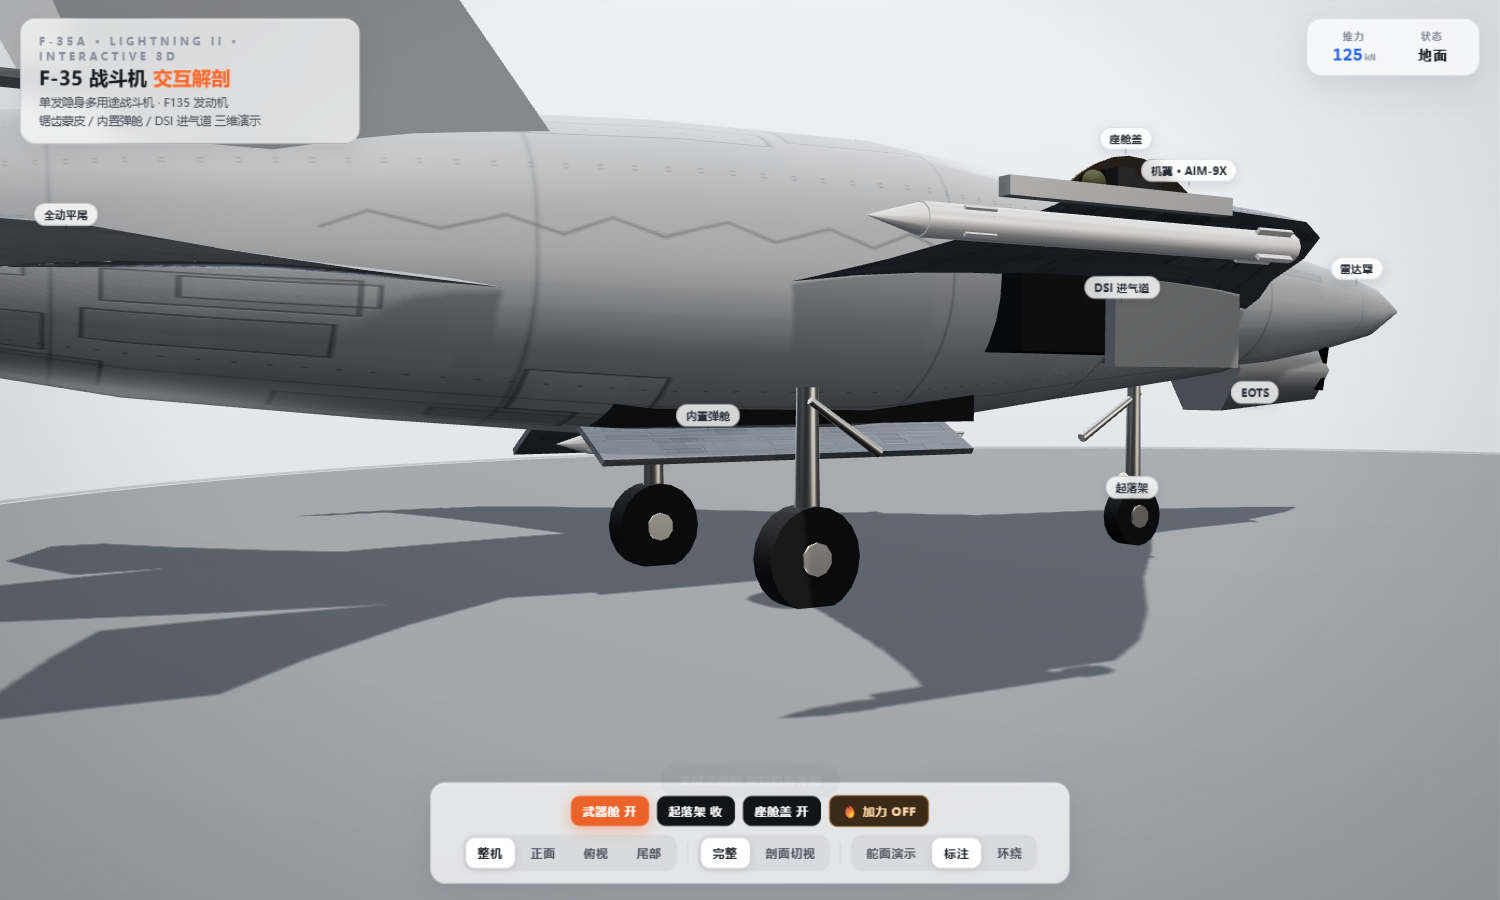
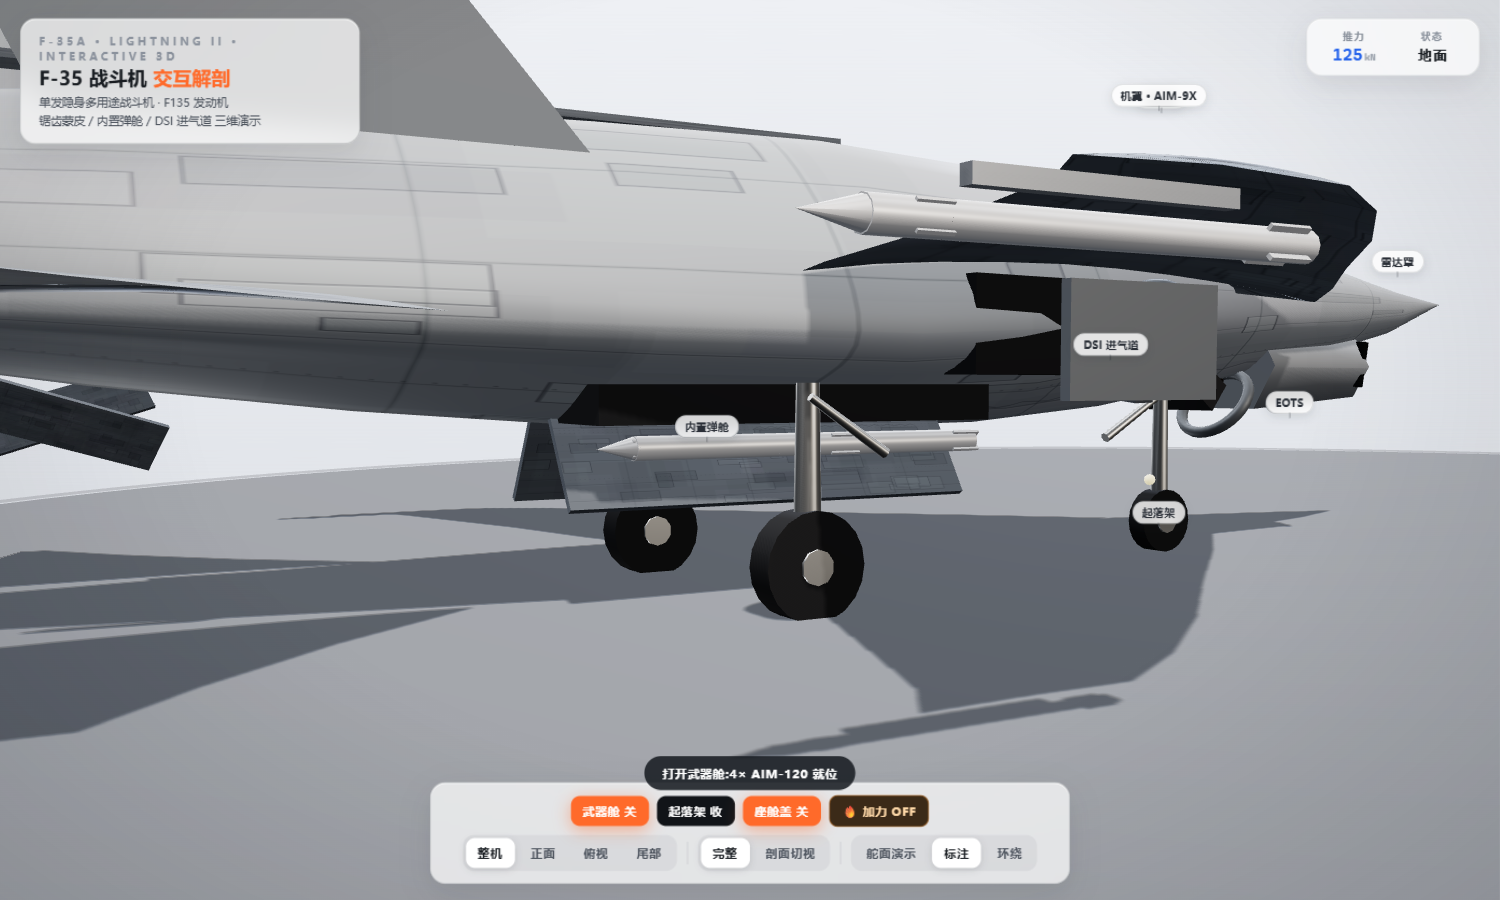
F-35 v2:控制点样条截面刻出棱线机身,翼根弦加大与进气道融合,座舱加大可开,腹鳍细节

diff --git a/index.html b/index.html
@@ -452,6 +452,27 @@ function airfoilPts(chord,t,n=9){
   }
   return pts;
 }
+/* 控制点样条截面:顶心→上肩→棱线→下肩→底心(左右镜像),闭合样条采样
+   刻出 F-35 的棱线与深机腹 */
+function csect(top,upY,upZ,chY,chZ,loY,loZ,bot,N=48){
+  const pts=[
+    V3(top,0,0),
+    V3(upY,upZ,0),
+    V3(chY,chZ,0),
+    V3(loY,loZ,0),
+    V3(bot,0,0),
+    V3(loY,-loZ,0),
+    V3(chY,-chZ,0),
+    V3(upY,-upZ,0),
+  ];
+  const curve=new THREE.CatmullRomCurve3(pts,true,'catmullrom',0.5);
+  const out=[];
+  for(let i=0;i<N;i++){
+    const p=curve.getPoint(i/N);
+    out.push([p.x,p.y]);
+  }
+  return out;
+}
 
 const jet=new THREE.Group(); jet.position.y=0.42; scene.add(jet);
 const pickables=[];
@@ -462,80 +483,81 @@ function mesh(geo,mat,parent,part){
   parent.add(x);pickables.push(x);return x;
 }
 
-/* ================= 机身(菱形感截面,分缝蒙皮) ================= */
+/* ================= 机身(控制点样条截面:棱线+深机腹) ================= */
 {
+  // [x, 顶心, 上肩Y,上肩Z, 棱线Y,棱线Z, 下肩Y,下肩Z, 底心]
   const S=[
-    [0.00,0.02, 0.02,0.02, 2.4,2.0, 0],
-    [0.60,0.27, 0.27,0.27, 2.5,2.0, -0.02],
-    [1.50,0.54, 0.42,0.45, 2.6,2.0, -0.02],
-    [2.60,0.80, 0.56,0.63, 2.7,2.0, -0.02],
-    [4.00,1.00, 0.66,0.81, 2.7,2.0, 0],
-    [5.30,1.22, 0.82,0.95, 2.8,2.0, 0],
-    [6.50,1.46, 0.97,1.09, 2.9,2.05,0],
-    [7.80,1.62, 1.07,1.19, 3.0,2.1, 0],
-    [9.60,1.58, 1.05,1.17, 3.0,2.1, 0],
-    [11.30,1.36,0.97,1.03, 2.9,2.05,0],
-    [12.80,1.05,0.86,0.88, 2.7,2.0, 0],
-    [13.90,0.79,0.70,0.68, 2.5,2.0, 0],
-    [14.60,0.63,0.55,0.53, 2.4,2.0, 0],
+    [0.00,0.001,0.001,0.001,0.001,0.001,0.001,0.001,0.001],
+    [0.90,0.10, 0.06, 0.20, -0.08,0.24, -0.22,0.18, -0.32],
+    [2.10,0.36, 0.14, 0.42, -0.14,0.50, -0.38,0.36, -0.58],
+    [3.40,0.56, 0.19, 0.56, -0.19,0.65, -0.48,0.48, -0.80],
+    [4.80,0.74, 0.27, 0.72, -0.29,0.92, -0.62,0.62, -1.02],
+    [6.20,0.93, 0.35, 0.90, -0.41,1.25, -0.80,0.81, -1.14],
+    [7.80,1.01, 0.39, 0.95, -0.49,1.46, -0.87,0.83, -1.16],
+    [9.60,0.98, 0.37, 0.89, -0.47,1.36, -0.83,0.79, -1.12],
+    [11.20,0.93,0.33, 0.77, -0.43,1.10, -0.75,0.71, -1.00],
+    [12.70,0.87,0.29, 0.61, -0.39,0.83, -0.63,0.57, -0.84],
+    [13.90,0.73,0.25, 0.48, -0.35,0.62, -0.53,0.46, -0.67],
+    [14.55,0.61,0.21, 0.44, -0.29,0.54, -0.45,0.40, -0.57],
   ];
-  const secs=S.map(([x,w,hT,hB,nT,nB,cy])=>({s:x,pts:sect(w,hT,hB,nT,nB,cy)}));
+  const secs=S.map(([x,top,upY,upZ,chY,chZ,loY,loZ,bot])=>
+    ({s:x,pts:csect(top,upY,upZ,chY,chZ,loY,loZ,bot)}));
   mesh(loft(secs,'x'),mSkin,jet,'skin');
-  // 脊背
-  const spine=mesh(new THREE.BoxGeometry(6.2,0.05,0.32),mSkinD,jet,'skin');
-  spine.position.set(10.7,1.0,0);
+  // 脊背(座舱后到垂尾)
+  const spine=mesh(new THREE.BoxGeometry(5.6,0.05,0.30),mSkinD,jet,'skin');
+  spine.position.set(10.4,0.99,0);
 }
 
 /* ================= 座舱(深金舱盖 + 弹射座椅,后铰链可开) ================= */
 const canopyPivot=new THREE.Group();
-canopyPivot.position.set(5.78,0.25,0); jet.add(canopyPivot);
+canopyPivot.position.set(5.62,0.42,0); jet.add(canopyPivot);
 {
   const secs=[];
   for(let i=0;i<=16;i++){
-    const t=i/16, x=-(5.78-(2.55+t*3.23));
-    const w=(0.40*Math.sin(Math.PI*Math.min(1,t*1.06))+0.02)*1.25;
-    const h=(1.02*Math.sin(Math.PI*Math.min(1,t*1.03))+0.02);
+    const t=i/16, x=-(5.62-(2.95+t*2.67));
+    const w=(0.47*Math.sin(Math.PI*Math.min(1,t*1.05))+0.02);
+    const h=(0.72*Math.sin(Math.PI*Math.min(1,t*1.02))+0.02);
     const pts=[];
     const Np=18;
     for(let j=0;j<=Np;j++){
       const a=-Math.PI/2+j/Np*Math.PI;
-      pts.push([0.06+h*Math.sin(a), w*Math.cos(a)]);
+      pts.push([0.42+h*Math.sin(a), w*Math.cos(a)]);
     }
     secs.push({s:x,pts});
   }
   const cp=mesh(loft(secs,'x'),mGlass,canopyPivot,'canopy');
   cp.castShadow=false;
   // 风挡前框
-  const frame=mesh(new THREE.TorusGeometry(0.36,0.045,10,32),
+  const frame=mesh(new THREE.TorusGeometry(0.34,0.045,10,32),
     M('skin',{color:0x82888f,metalness:0.5,roughness:0.45}),canopyPivot,'canopy');
-  frame.rotation.y=Math.PI/2; frame.position.set(-3.23,0.28,0); frame.scale.set(1,1.0,1.30);
+  frame.rotation.y=Math.PI/2; frame.position.set(-2.67,0.24,0); frame.scale.set(1,1.0,1.34);
   // 座舱 tub + 弹射座椅 + 飞行员
-  const tub=mesh(new THREE.BoxGeometry(1.9,0.28,0.72),mSeat,canopyPivot,'canopy');
-  tub.position.set(-1.85,0.10,0);
-  const seatB=mesh(new THREE.BoxGeometry(0.30,0.72,0.5),mSeat,canopyPivot,'canopy');
-  seatB.position.set(-1.55,0.48,0); seatB.rotation.z=0.28;
+  const tub=mesh(new THREE.BoxGeometry(1.8,0.28,0.74),mSeat,canopyPivot,'canopy');
+  tub.position.set(-1.45,0.06,0);
+  const seatB=mesh(new THREE.BoxGeometry(0.30,0.70,0.5),mSeat,canopyPivot,'canopy');
+  seatB.position.set(-1.22,0.42,0); seatB.rotation.z=0.28;
   const head=mesh(new THREE.BoxGeometry(0.22,0.26,0.34),mSeat,canopyPivot,'canopy');
-  head.position.set(-1.42,0.82,0);
+  head.position.set(-1.08,0.74,0);
   const pilotH=mesh(new THREE.SphereGeometry(0.13,12,10),mPilot,canopyPivot,'canopy');
-  pilotH.position.set(-1.15,0.80,0);
+  pilotH.position.set(-0.82,0.72,0);
   const pilotB=mesh(new THREE.BoxGeometry(0.34,0.5,0.44),mPilot,canopyPivot,'canopy');
-  pilotB.position.set(-1.05,0.5,0);
+  pilotB.position.set(-0.72,0.44,0);
 }
 
-/* ================= DSI 进气道 ================= */
+/* ================= DSI 进气道(棱线下方,外唇前掠) ================= */
 [1,-1].forEach(sgn=>{
-  const g=new THREE.Group(); g.position.set(5.45,-0.18,sgn*1.28); jet.add(g);
-  const lip=mesh(new THREE.BoxGeometry(0.15,0.92,1.0),
+  const g=new THREE.Group(); g.position.set(5.42,-0.55,sgn*0.80); jet.add(g);
+  const lip=mesh(new THREE.BoxGeometry(0.15,0.78,0.90),
     M('skin',{color:0x8f959d,metalness:0.3,roughness:0.52,map:wingTex}),g,'intake');
-  lip.rotation.y=sgn*0.22; lip.rotation.x=-0.06;
-  const duct=mesh(new THREE.BoxGeometry(1.6,0.76,0.88),mDark,g,'intake');
-  duct.position.set(0.8,0,sgn*0.02);
+  lip.rotation.y=sgn*0.24; lip.rotation.x=-0.08; lip.rotation.z=sgn*0.05;
+  const duct=mesh(new THREE.BoxGeometry(1.9,0.70,0.82),mDark,g,'intake');
+  duct.position.set(0.95,0.14,sgn*0.06); duct.rotation.y=-sgn*0.10;
   const bump=mesh(new THREE.SphereGeometry(0.5,24,18),
     M('skin',{color:0x9ba1a8,metalness:0.25,roughness:0.55,map:fusTex}),g,'intake');
-  bump.scale.set(1.0,0.9,0.6); bump.position.set(-0.3,0.02,sgn*0.32);
-  const slot=mesh(new THREE.BoxGeometry(1.35,0.98,0.10),
+  bump.scale.set(1.0,0.9,0.55); bump.position.set(-0.22,0.10,sgn*0.24);
+  const slot=mesh(new THREE.BoxGeometry(1.5,0.88,0.10),
     M('skin',{color:0x82888f,metalness:0.3,roughness:0.55}),g,'intake');
-  slot.position.set(0.22,0,sgn*0.64);
+  slot.position.set(0.3,0.04,sgn*0.58);
 });
 
 /* ================= EOTS ================= */
@@ -547,27 +569,27 @@ canopyPivot.position.set(5.78,0.25,0); jet.add(canopyPivot);
   face.position.set(1.63,-0.64,0); face.rotation.z=0.18;
 }
 
-/* ================= 机翼(大根弦梯形) ================= */
+/* ================= 机翼(大根弦梯形,与进气道融合) ================= */
 [1,-1].forEach(sgn=>{
   const secs=[];
   const st=[
-    [0.85, 5.20, 6.15, 0.050],
-    [2.00, 4.20, 6.90, 0.046],
-    [3.20, 3.10, 7.75, 0.042],
-    [4.30, 2.30, 8.50, 0.039],
-    [5.00, 1.75, 9.05, 0.037],
-    [5.35, 1.35, 9.42, 0.035],
+    [0.75, 5.50, 5.70, 0.052],
+    [1.90, 4.60, 6.55, 0.048],
+    [3.10, 3.45, 7.45, 0.044],
+    [4.20, 2.55, 8.30, 0.040],
+    [4.95, 1.80, 8.95, 0.037],
+    [5.35, 1.35, 9.45, 0.035],
   ];
   st.forEach(([z,c,xLE,t])=>{
-    const pts=airfoilPts(c,t).map(([px,py])=>[px+xLE,py-0.12]);
+    const pts=airfoilPts(c,t).map(([px,py])=>[px+xLE,py-0.10]);
     secs.push({s:sgn*z,pts});
   });
   mesh(loft(secs,'z'),mSkinD,jet,'wing');
-  // 翼尖挂架 + AIM-9X(参考图 2)
+  // 翼尖挂架 + AIM-9X
   const rail=mesh(new THREE.BoxGeometry(1.15,0.07,0.06),
     M('skin',{color:0x9ba1a9,metalness:0.4,roughness:0.45}),jet,'missile');
-  rail.position.set(9.85,-0.10,sgn*5.38);
-  const m9=new THREE.Group(); m9.position.set(9.85,-0.24,sgn*5.38); jet.add(m9);
+  rail.position.set(10.0,-0.20,sgn*5.38);
+  const m9=new THREE.Group(); m9.position.set(10.0,-0.34,sgn*5.38); jet.add(m9);
   const body=mesh(new THREE.CylinderGeometry(0.062,0.062,1.9,12),mMis,m9,'missile');
   body.rotation.z=Math.PI/2;
   const noseC=mesh(new THREE.ConeGeometry(0.062,0.24,12),mMis,m9,'missile');
@@ -585,12 +607,12 @@ canopyPivot.position.set(5.78,0.25,0); jet.add(canopyPivot);
   }
 });
 
-/* ================= 全动平尾(后缘锯齿暗示) ================= */
+/* ================= 全动平尾 ================= */
 const stabGroups=[];
 [1,-1].forEach(sgn=>{
-  const g=new THREE.Group(); g.position.set(12.35,-0.22,sgn*0.68); jet.add(g);
+  const g=new THREE.Group(); g.position.set(12.55,-0.42,sgn*0.62); jet.add(g);
   const secs=[];
-  const st=[[0.72,2.75,0,0.046],[1.5,2.05,0.66,0.041],[2.25,1.5,1.18,0.036],[2.9,1.12,1.55,0.032]];
+  const st=[[0.68,2.90,0,0.046],[1.5,2.15,0.70,0.041],[2.3,1.55,1.25,0.036],[2.95,1.15,1.62,0.032]];
   st.forEach(([z,c,dx,t])=>{
     const pts=airfoilPts(c,t).map(([px,py])=>[px+dx,py]);
     secs.push({s:sgn*z,pts});
@@ -604,21 +626,28 @@ const stabGroups=[];
 const finGroups=[];
 [1,-1].forEach(sgn=>{
   const g=new THREE.Group();
-  g.position.set(11.55,0.55,sgn*1.05);
+  g.position.set(11.45,0.60,sgn*0.95);
   g.rotation.x=sgn*22*D2R;
   jet.add(g);
   const secs=[];
-  const st=[[0,2.70,0,0.048],[1.35,2.00,0.92,0.043],[2.35,1.45,1.62,0.038],[2.95,1.18,2.00,0.034]];
+  const st=[[0,2.95,0,0.048],[1.35,2.15,1.05,0.043],[2.35,1.55,1.85,0.038],[3.05,1.25,2.20,0.034]];
   st.forEach(([y,c,dx,t])=>{
     const pts=airfoilPts(c,t).map(([px,py])=>[px+dx,sgn*0.05]);
     secs.push({s:y,pts});
   });
   mesh(loft(secs,'y'),mFin,g,'fin');
   g.children.forEach(c=>{ c.castShadow=false; });   // 垂尾不投影,避免互遮成黑面
-  const tip=mesh(new THREE.BoxGeometry(0.45,0.05,0.045),
+  const tip=mesh(new THREE.BoxGeometry(0.42,0.05,0.045),
     M('skin',{color:0x82888f,metalness:0.4,roughness:0.5}),g,'fin');
-  tip.position.set(2.48,2.95,0); tip.castShadow=false;
+  tip.position.set(2.62,3.08,0); tip.castShadow=false;
   finGroups.push({g,sgn});
+});
+/* 腹鳍 ×2(参考图 3 机腹细节) */
+[1,-1].forEach(sgn=>{
+  const vf=mesh(new THREE.BoxGeometry(1.15,0.30,0.03),
+    M('skin',{color:0x9ba1a8,metalness:0.3,roughness:0.55,map:wingTex}),jet,'skin');
+  vf.position.set(12.9,-1.02,sgn*0.42);
+  vf.rotation.z=-sgn*0.35; vf.rotation.x=sgn*0.5;
 });
 
 /* ================= 内置弹舱(AIM-120 下挂可见) ================= */
@@ -960,16 +989,16 @@ setTimeout(()=>{const h=$('hint');if(h){h.style.opacity='0';h.style.transition='
 
 /* ================= 标注 ================= */
 const LABEL_DEFS=[
-  ['radome','雷达罩','radome',[0.7,0.32,0]],
-  ['canopy','座舱盖','canopy',[4.2,1.4,0]],
-  ['intake','DSI 进气道','intake',[6.0,-0.15,-1.7]],
-  ['eots','EOTS','eots',[2.3,-1.0,0]],
-  ['wing','机翼 · AIM-9X','wing',[9.4,0,-5.3]],
-  ['stab','全动平尾','stab',[13.2,-0.1,-2.4]],
-  ['fin','外倾垂尾','fin',[13.4,2.9,-2.3]],
-  ['bay','内置弹舱','bay',[8.35,-1.15,0.6]],
+  ['radome','雷达罩','radome',[0.7,0.30,0]],
+  ['canopy','座舱盖','canopy',[4.1,1.62,0]],
+  ['intake','DSI 进气道','intake',[6.0,-0.62,-1.35]],
+  ['eots','EOTS','eots',[2.3,-1.12,0]],
+  ['wing','机翼 · AIM-9X','wing',[9.7,0.1,-5.3]],
+  ['stab','全动平尾','stab',[13.4,-0.35,-2.3]],
+  ['fin','外倾垂尾','fin',[13.6,3.1,-2.3]],
+  ['bay','内置弹舱','bay',[8.35,-1.25,0.6]],
   ['nozzle','锯齿喷口','nozzle',[15.2,0.5,0]],
-  ['gear','起落架','gear',[4.05,-1.9,0]],
+  ['gear','起落架','gear',[4.05,-2.1,0]],
 ];
 const labelAnchors=[];
 {
